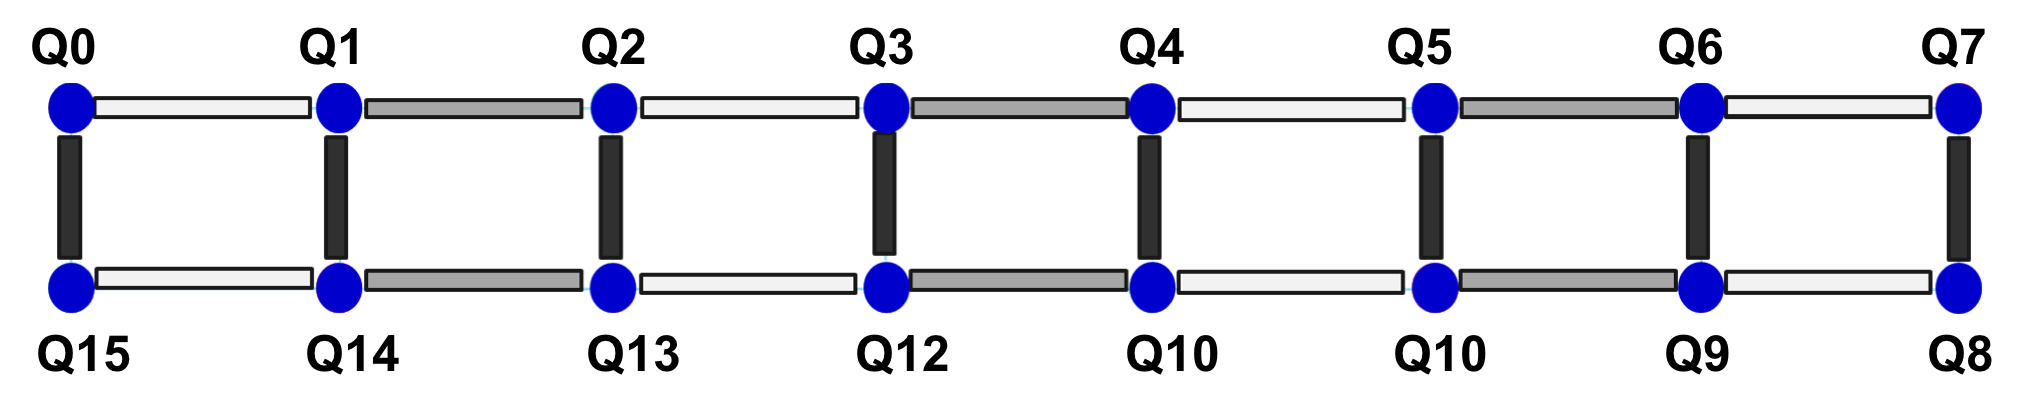
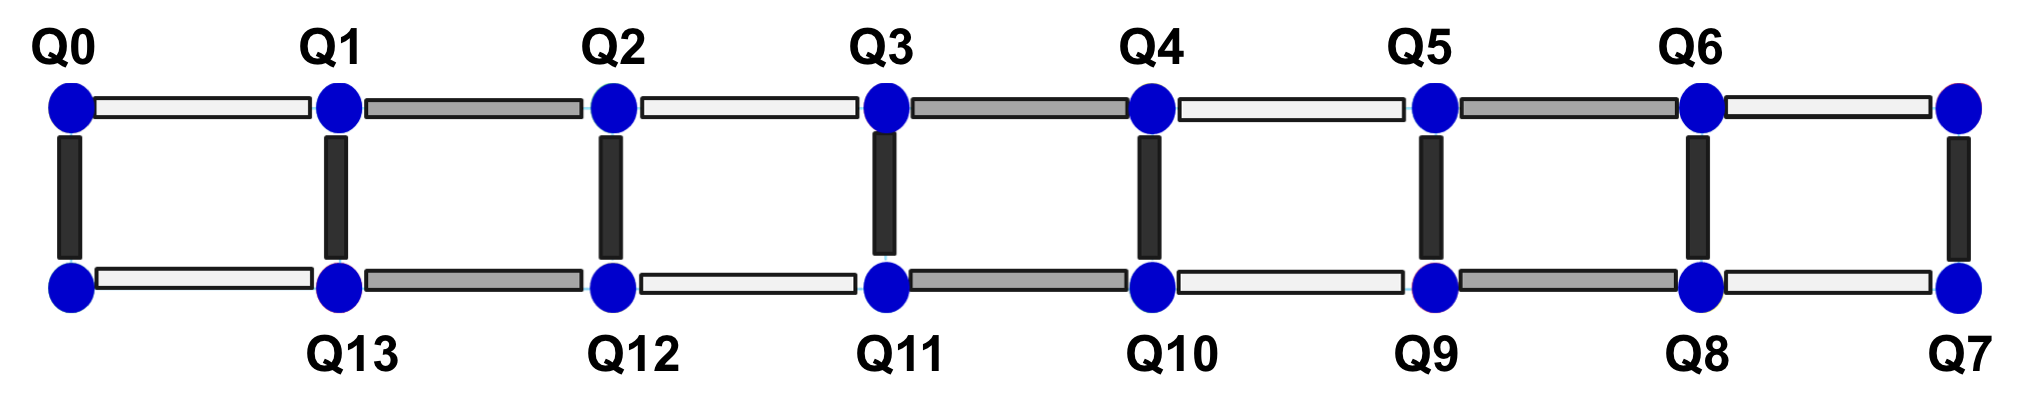
Melbourne renumbered

diff --git a/backends/melbourne/V1/version_log.md b/backends/melbourne/V1/version_log.md
@@ -11,7 +11,7 @@ This document is a version log for the IBM Q experience **ibmq\_16\_melbourne** 
 
 # 1.0.0
 
-**Date**: September 17, 2018
+**Date**: September 23, 2018
 
 ## Changes
 
@@ -20,51 +20,47 @@ This document is a version log for the IBM Q experience **ibmq\_16\_melbourne** 
 
 The connectivity map for the CNOTS in this device is
 ```
-coupling_map = [[1,0], [1,2], [2,3], [4,3], [4,11], [5,4], [5,6], [5,10], [6,9], [8,9], [10,9], [10,11], [12,11], [12,3], [12,13], [13,2], [14,1], [14,13]]
+coupling_map = [[1,0], [1,2], [2,3], [4,3], [4,10], [5,4], [5,6], [5,9], [6,8], [7,8], [9,8], [9,10], [11,10], [11,3], [11,12], [12,2], [13,1], [13,12]]
 ```
 Where [a,b] means a CNOT with qubit a as control and b as target can be implemented.
 
 The following table shows some of the typical experimental parameters for this device.
 
 | Qubit| &omega;<sup>R</sup><sub>i</sub>/2&pi; (GHz)       | &omega;<sub>i</sub>/2&pi;  (GHz)|
-|----|-------------|--------|
-| **Q0**  | 6.95518 | 5.1000 | 
-| **Q1**  | 7.05693 | 5.2384 | 
-| **Q2**  | 6.97179 | 5.0328 | 
-| **Q3**  | 7.04784 | 4.8961 | 
-| **Q4**  | 6.94523 | 5.0262 | 
-| **Q5**  | 7.07587 | 5.0670 | 
-| **Q6**  | 6.95297 | 4.9237 | 
-| **Q7**  | 7.06667 | 5.0707 | 
-| **Q8**  | 6.96377 | 4.9744 | 
-| **Q9**  | 7.04930 | 4.7381 | 
-| **Q10**  | 6.96707 | 4.9633 | 
-| **Q11**  | 7.05513 | 4.9450 | 
-| **Q12**  | 6.95492 | 5.0046 | 
-| **Q13**  | 7.06722| 4.7598 | 
-| **Q14**  | 6.94433 | 4.9685 | 
-| **Q15**  | 7.07006 | 5.0025 | 
+|----|-------------|--------|-------|--------|-------|
+| **Q0**  | 6.95518 | 5.1000 | -292.8    | 125 | 345 |
+| **Q1**  | 7.05693 | 5.2384 | -291.0    | 153 | 373 |
+| **Q2**  | 6.97179 | 5.0328 | -289.2    | 118 | 440 |
+| **Q3**  | 7.04784 | 4.8961 | -294.0    | 100 | 345 |
+| **Q4**  | 6.94523 | 5.0262 | -290.7    | 81 | 545 |
+| **Q5**  | 7.07587 | 5.0670 | -286.0    | 125 | 372 |
+| **Q6**  | 6.95297 | 4.9237 | -289.2    | 127 | 413 |
+| **Q7**  | 6.96377 | 4.9744 | -287.6    | 120 | 321 |
+| **Q8**  | 7.04930 | 4.7381 | -297.6    | 72 | 299 |
+| **Q9**  | 6.96707 | 4.9633 | -291.5   | 83  | 428 |
+| **Q10**  | 7.05513 | 4.9450 | -290.7   | 100 | 561 |
+| **Q11**  | 6.95492 | 5.0046 | -299.0   | 81  | 550 |
+| **Q12**  | 7.06722| 4.7598 | -289.8   | 108 | 398 |
+| **Q13**  | 6.94433 | 4.9685 | -296.0   | 78 | 545 |
 
 Here is the crosstalk matrix, the error bar is less than 1 kHz for all &zeta;<sub>ij</sub> and a dash indicates an interaction strength for that pair < 5 kHz.
 
-| &zeta;<sub>ij</sub>/2&pi; (kHz) | Q0 | Q1 | Q2 | Q3 | Q4 | Q5 | Q6 | Q7 | Q8 | Q9 | Q10 | Q11 | Q12 | Q13 | Q14 | Q15 |
-|----|----|----|----|----|----|----|----|----|----|----|----|----|----|----|----|----|
-| **Q0** | | -50 | - | - |	- | - | - | - | - | - | - | - | - | - | - |  |
-| **Q1** | -50 | | -89 | - | - | - | - | - | - | - | - | - | - | - | -206 | - |
-| **Q2** | - | -90 | | -34 | - | - | - | - | - | - | - | - | - | -147 | - | -|
-| **Q3** | - | - | -34 | | -37 | - | - | - | - | - | - | - | -24 | - | - | - |
-| **Q4** | - | - | - | -39 | | -8 | - | - | - | - | - | -22 | - | - | - | - |
-| **Q5** | - | - | - | - |  | |  | - | - | - |  | - | - | - | - | - |
-| **Q6** | - | - | - | - | - | -12 | | -41 | - | -27 | - | - | - | - | - | - |
-| **Q7** | - | - | - | - | - | - | -38 | | -23 | - | - | - | - | - | - | - |
-| **Q8** | - | - | - | - | - | - | - | -20 | | -58| - | - | - | - | - | - |
-| **Q9** | - | - | - | - | - | - | -28 | - | -58 | | -63 | - | - | - | - | - |
-| **Q10** | - | - | - | - | - | -8 | - | - | - | -65 | | -28 | - | - | - | - |
-| **Q11** | - | - | - | - | -22 | - | - | - | - | - | -26 | | -33 | - | - | - |
-| **Q12** | - | - | - | -25 | - | - | - | - | - | - | - | -31 | | -83 | - | - |
-| **Q13** | - | - | -148 | - | - | - | - | - | - | - | - | - | -46 | | -52 | - |
-| **Q14** | - | -205 | - | - | - | - | - | - | - | - | - | - | - | -53 | |  |
-| **Q15** |  | - | - | - | - | - | - | - | - | - | - | - | - | - |  | |
+| &zeta;<sub>ij</sub>/2&pi; (kHz) | Q0 | Q1 | Q2 | Q3 | Q4 | Q5 | Q6 | Q7 | Q8 | Q9 | Q10 | Q11 | Q12 | Q13 |
+|----|----|----|----|----|----|----|----|----|----|----|----|----|----|----|
+| **Q0** | | -50 | - | - |	- | - | - | - | - | - | - | - | - | - |
+| **Q1** | -50 | | -89 | - | - | - | - | - | - | - | - | - | - | -206 |
+| **Q2** | - | -90 | | -34 | - | -  | - | - | - | - | - | - | -147 | - |
+| **Q3** | - | - | -34 | | -37 | - | - | - | - | - | - | -24 | - | - |
+| **Q4** | - | - | - | -39 | | -8 | - | - | - | - | -22 | - | - | - |
+| **Q5** | - | - | - | - |  | |  | -  | - |  | - | - | - | - |
+| **Q6** | - | - | - | - | - | -12 |  | - | -27 | - | - | - | - | - |
+| **Q7** | - | - | - | - | - | - | -  | | -58| - | - | - | - | - |
+| **Q8** | - | - | - | - | - | - | -28 | -58 | | -63 | - | - | - | - |
+| **Q9** | - | - | - | - | - | -8 | -  | - | -65 | | -28 | - | - | - |
+| **Q10** | - | - | - | - | -22 | - | -  | - | - | -26 | | -33 | - | - |
+| **Q11** | - | - | - | -25 | - | - | -  | - | - | - | -31 | | -83 | - |
+| **Q12** | - | - | -148 | - | - | - | - | - | - | - | - | -46 | | -52 |
+| **Q13** | - | -205 | - | - | - | - | - | - | - | - | - | - | -53 | 
 
 
 <!--The relaxation (T<sub>1</sub>) and coherence (T<sub>2</sub>) times for each qubit are given in the following table. T<sub>1</sub> is measured with an inversion recovery experiment, and T<sub>2</sub> is measured with a Hahn echo experiment.  These values are averaged over 12 measurements each for T<sub>1</sub> and T<sub>2</sub>, performed over one week. The numbers in parentheses are the standard deviation. 
@@ -100,21 +96,21 @@ All the GD have a gate time of 100 ns, and the gate times for all GF pulses used
 | **CX4_3**  | 266 |
 | **CX5_4** | 300|
 | **CX5_6**   | 300|
-| **CX8_9**   | 220 |
-| **CX10_9**   | 400 |
-|**CX10_11**| 300 |
-|**CX12_11**| 261 |
-| **CX12_13**  | 217 |
-| **CX14_13**  | 300 |
-| **CX14_1**   | 652 |
-| **CX13_2**   | 1086 |
-| **CX12_3** | 286 |
-| **CX4_11**  | 261|
-| **CX5_10** | 348 |
-| **CX6_9**  | 300 |
+| **CX7_8**   | 220 |
+| **CX9_8**   | 400 |
+|**CX9_10**| 300 |
+|**CX11_10**| 261 |
+| **CX11_12**  | 217 |
+| **CX13_12**  | 300 |
+| **CX13_1**   | 652 |
+| **CX12_2**   | 1086 |
+| **CX11_3** | 286 |
+| **CX4_10**  | 261|
+| **CX5_9** | 348 |
+| **CX6_8**  | 300 |
 
 ### Two Qubit Gates
 
-The gate directions are given by the following diagram.  Gates associated with Q7 and Q15 are not calibrated due to frequency instability and crosstalk issues, respectively. 
+The gate directions are given by the following diagram.  
 
 <img src="../images/melbourne-connections.png? raw=true" height="80">

diff --git a/backends/melbourne/V1/README.md b/backends/melbourne/V1/README.md
@@ -12,7 +12,7 @@ Baleegh Abdo, Vivekananda Adiga, Lev Bishop, Markus Brink, Nicholas Bronn, Jerry
 
 ## Device Specifications 
 
-The connectivity on the device is provided by total 22 coplanar waveguide (CPW) "bus" resonators, each of which connects two qubits. The connectivity configuration is shown in the figure below; the colored dots indicate qubits, and the colored bars indicate CPW bus resonators. Three different resonant frequencies are used for the bus resonators. The white bars indicate the buses with a resonant frequency of 6.25 GHz, the grey bars 6.45 GHz, and the black bars 6.65 GHz.    
+The connectivity on the device is provided by total 22 coplanar waveguide (CPW) "bus" resonators, each of which connects two qubits. The connectivity configuration is shown in the figure below; the colored dots indicate qubits, and the colored bars indicate CPW bus resonators. Three different resonant frequencies are used for the bus resonators. The white bars indicate the buses with a resonant frequency of 6.25 GHz, the grey bars 6.45 GHz, and the black bars 6.65 GHz. Two of the qubits in the chip are not calibrated due to frequency instability and crosstalk issues. 
 
 <img src="../images/melbourne-bus.png?raw=true" width=750">
 
@@ -23,23 +23,21 @@ Each qubit has a dedicated CPW readout resonator attached (labeled as R) for con
 The following table shows some of the typical experimental parameters for this device (for V1.1.0).
 
 | Qubit| &omega;<sup>R</sup><sub>i</sub>/2&pi; (GHz)       | &omega;<sub>i</sub>/2&pi;  (GHz)|
-|----|-------------|--------|
-| **Q0**  | 6.95518 | 5.1000 |
-| **Q1**  | 7.05693 | 5.2384 | 
-| **Q2**  | 6.97179 | 5.0328 | 
-| **Q3**  | 7.04784 | 4.8961 | 
-| **Q4**  | 6.94523 | 5.0262 | 
-| **Q5**  | 7.07587 | 5.0670 | 
-| **Q6**  | 6.95297 | 4.9237 | 
-| **Q7**  | 7.06667 | 5.0707 | 
-| **Q8**  | 6.96377 | 4.9744 | 
-| **Q9**  | 7.04930 | 4.7381 | 
-| **Q10**  | 6.96707 | 4.9633 | 
-| **Q11**  | 7.05513 | 4.9450 | 
-| **Q12**  | 6.95492 | 5.0046 | 
-| **Q13**  | 7.06722| 4.7598 | 
-| **Q14**  | 6.94433 | 4.9685 | 
-| **Q15**  | 7.07006 | 5.0025 | 
+|----|-------------|--------|-------|--------|-------|
+| **Q0**  | 6.95518 | 5.1000 | -292.8    | 125 | 345 |
+| **Q1**  | 7.05693 | 5.2384 | -291.0    | 153 | 373 |
+| **Q2**  | 6.97179 | 5.0328 | -289.2    | 118 | 440 |
+| **Q3**  | 7.04784 | 4.8961 | -294.0    | 100 | 345 |
+| **Q4**  | 6.94523 | 5.0262 | -290.7    | 81 | 545 |
+| **Q5**  | 7.07587 | 5.0670 | -286.0    | 125 | 372 |
+| **Q6**  | 6.95297 | 4.9237 | -289.2    | 127 | 413 |
+| **Q7**  | 6.96377 | 4.9744 | -287.6    | 120 | 321 |
+| **Q8**  | 7.04930 | 4.7381 | -297.6    | 72 | 299 |
+| **Q9**  | 6.96707 | 4.9633 | -291.5   | 83  | 428 |
+| **Q10**  | 7.05513 | 4.9450 | -290.7   | 100 | 561 |
+| **Q11**  | 6.95492 | 5.0046 | -299.0   | 81  | 550 |
+| **Q12**  | 7.06722| 4.7598 | -289.8   | 108 | 398 |
+| **Q13**  | 6.94433 | 4.9685 | -296.0   | 78 | 545 |
 
 
 where &omega;<sup>R</sup><sub>i</sub> is the resonance frequency of the readout resonator, &omega;<sub>i</sub> = (E<sub>i</sub> - E<sub>0</sub>)/&hbar; is the qubit frequency with i={0...1,0...10,...,01...0,1...0}.  The anharmonicity (&delta;<sub>i</sub>) is the difference between the frequency of the 1-2 transition and the 0-1 transition and is approx. ~290 MHz for all the qubits. That is, it is given by &delta;<sub>i</sub> = (E<sub>2i</sub> - 2E<sub>i</sub>+ E<sub>0</sub> )/&hbar;.  
@@ -52,24 +50,23 @@ Crosstalk, which we parameterize by &zeta;<sub>ij</sub> = (E<sub>i+j</sub> - E<s
 
 Here is a typical crosstalk matrix (for V1.0.0), the error bar is less than 1 kHz for all &zeta;<sub>ij</sub> and a dash indicates an interaction strength for that pair < 5 kHz.
 
-| &zeta;<sub>ij</sub>/2&pi; (kHz) | Q0 | Q1 | Q2 | Q3 | Q4 | Q5 | Q6 | Q7 | Q8 | Q9 | Q10 | Q11 | Q12 | Q13 | Q14 | Q15 |
-|----|----|----|----|----|----|----|----|----|----|----|----|----|----|----|----|----|
-| **Q0** | | -50 | - | - |	- | - | - | - | - | - | - | - | - | - | - |  |
-| **Q1** | -50 | | -89 | - | - | - | - | - | - | - | - | - | - | - | -206 | - |
-| **Q2** | - | -90 | | -34 | - | - | - | - | - | - | - | - | - | -147 | - | -|
-| **Q3** | - | - | -34 | | -37 | - | - | - | - | - | - | - | -24 | - | - | - |
-| **Q4** | - | - | - | -39 | | -8 | - | - | - | - | - | -22 | - | - | - | - |
-| **Q5** | - | - | - | - |  | |  | - | - | - |  | - | - | - | - | - |
-| **Q6** | - | - | - | - | - | -12 | | -41 | - | -27 | - | - | - | - | - | - |
-| **Q7** | - | - | - | - | - | - | -38 | | -23 | - | - | - | - | - | - | - |
-| **Q8** | - | - | - | - | - | - | - | -20 | | -58| - | - | - | - | - | - |
-| **Q9** | - | - | - | - | - | - | -28 | - | -58 | | -63 | - | - | - | - | - |
-| **Q10** | - | - | - | - | - | -8 | - | - | - | -65 | | -28 | - | - | - | - |
-| **Q11** | - | - | - | - | -22 | - | - | - | - | - | -26 | | -33 | - | - | - |
-| **Q12** | - | - | - | -25 | - | - | - | - | - | - | - | -31 | | -83 | - | - |
-| **Q13** | - | - | -148 | - | - | - | - | - | - | - | - | - | -46 | | -52 | - |
-| **Q14** | - | -205 | - | - | - | - | - | - | - | - | - | - | - | -53 | |  |
-| **Q15** |  | - | - | - | - | - | - | - | - | - | - | - | - | - |  | |
+| &zeta;<sub>ij</sub>/2&pi; (kHz) | Q0 | Q1 | Q2 | Q3 | Q4 | Q5 | Q6 | Q7 | Q8 | Q9 | Q10 | Q11 | Q12 | Q13 |
+|----|----|----|----|----|----|----|----|----|----|----|----|----|----|----|
+| **Q0** | | -50 | - | - |	- | - | - | - | - | - | - | - | - | - |
+| **Q1** | -50 | | -89 | - | - | - | - | - | - | - | - | - | - | -206 |
+| **Q2** | - | -90 | | -34 | - | -  | - | - | - | - | - | - | -147 | - |
+| **Q3** | - | - | -34 | | -37 | - | - | - | - | - | - | -24 | - | - |
+| **Q4** | - | - | - | -39 | | -8 | - | - | - | - | -22 | - | - | - |
+| **Q5** | - | - | - | - |  | |  | -  | - |  | - | - | - | - |
+| **Q6** | - | - | - | - | - | -12 |  | - | -27 | - | - | - | - | - |
+| **Q7** | - | - | - | - | - | - | -  | | -58| - | - | - | - | - |
+| **Q8** | - | - | - | - | - | - | -28 | -58 | | -63 | - | - | - | - |
+| **Q9** | - | - | - | - | - | -8 | -  | - | -65 | | -28 | - | - | - |
+| **Q10** | - | - | - | - | -22 | - | -  | - | - | -26 | | -33 | - | - |
+| **Q11** | - | - | - | -25 | - | - | -  | - | - | - | -31 | | -83 | - |
+| **Q12** | - | - | -148 | - | - | - | - | - | - | - | - | -46 | | -52 |
+| **Q13** | - | -205 | - | - | - | - | - | - | - | - | - | - | -53 | 
+
 
 
 ## Experimental Setup
